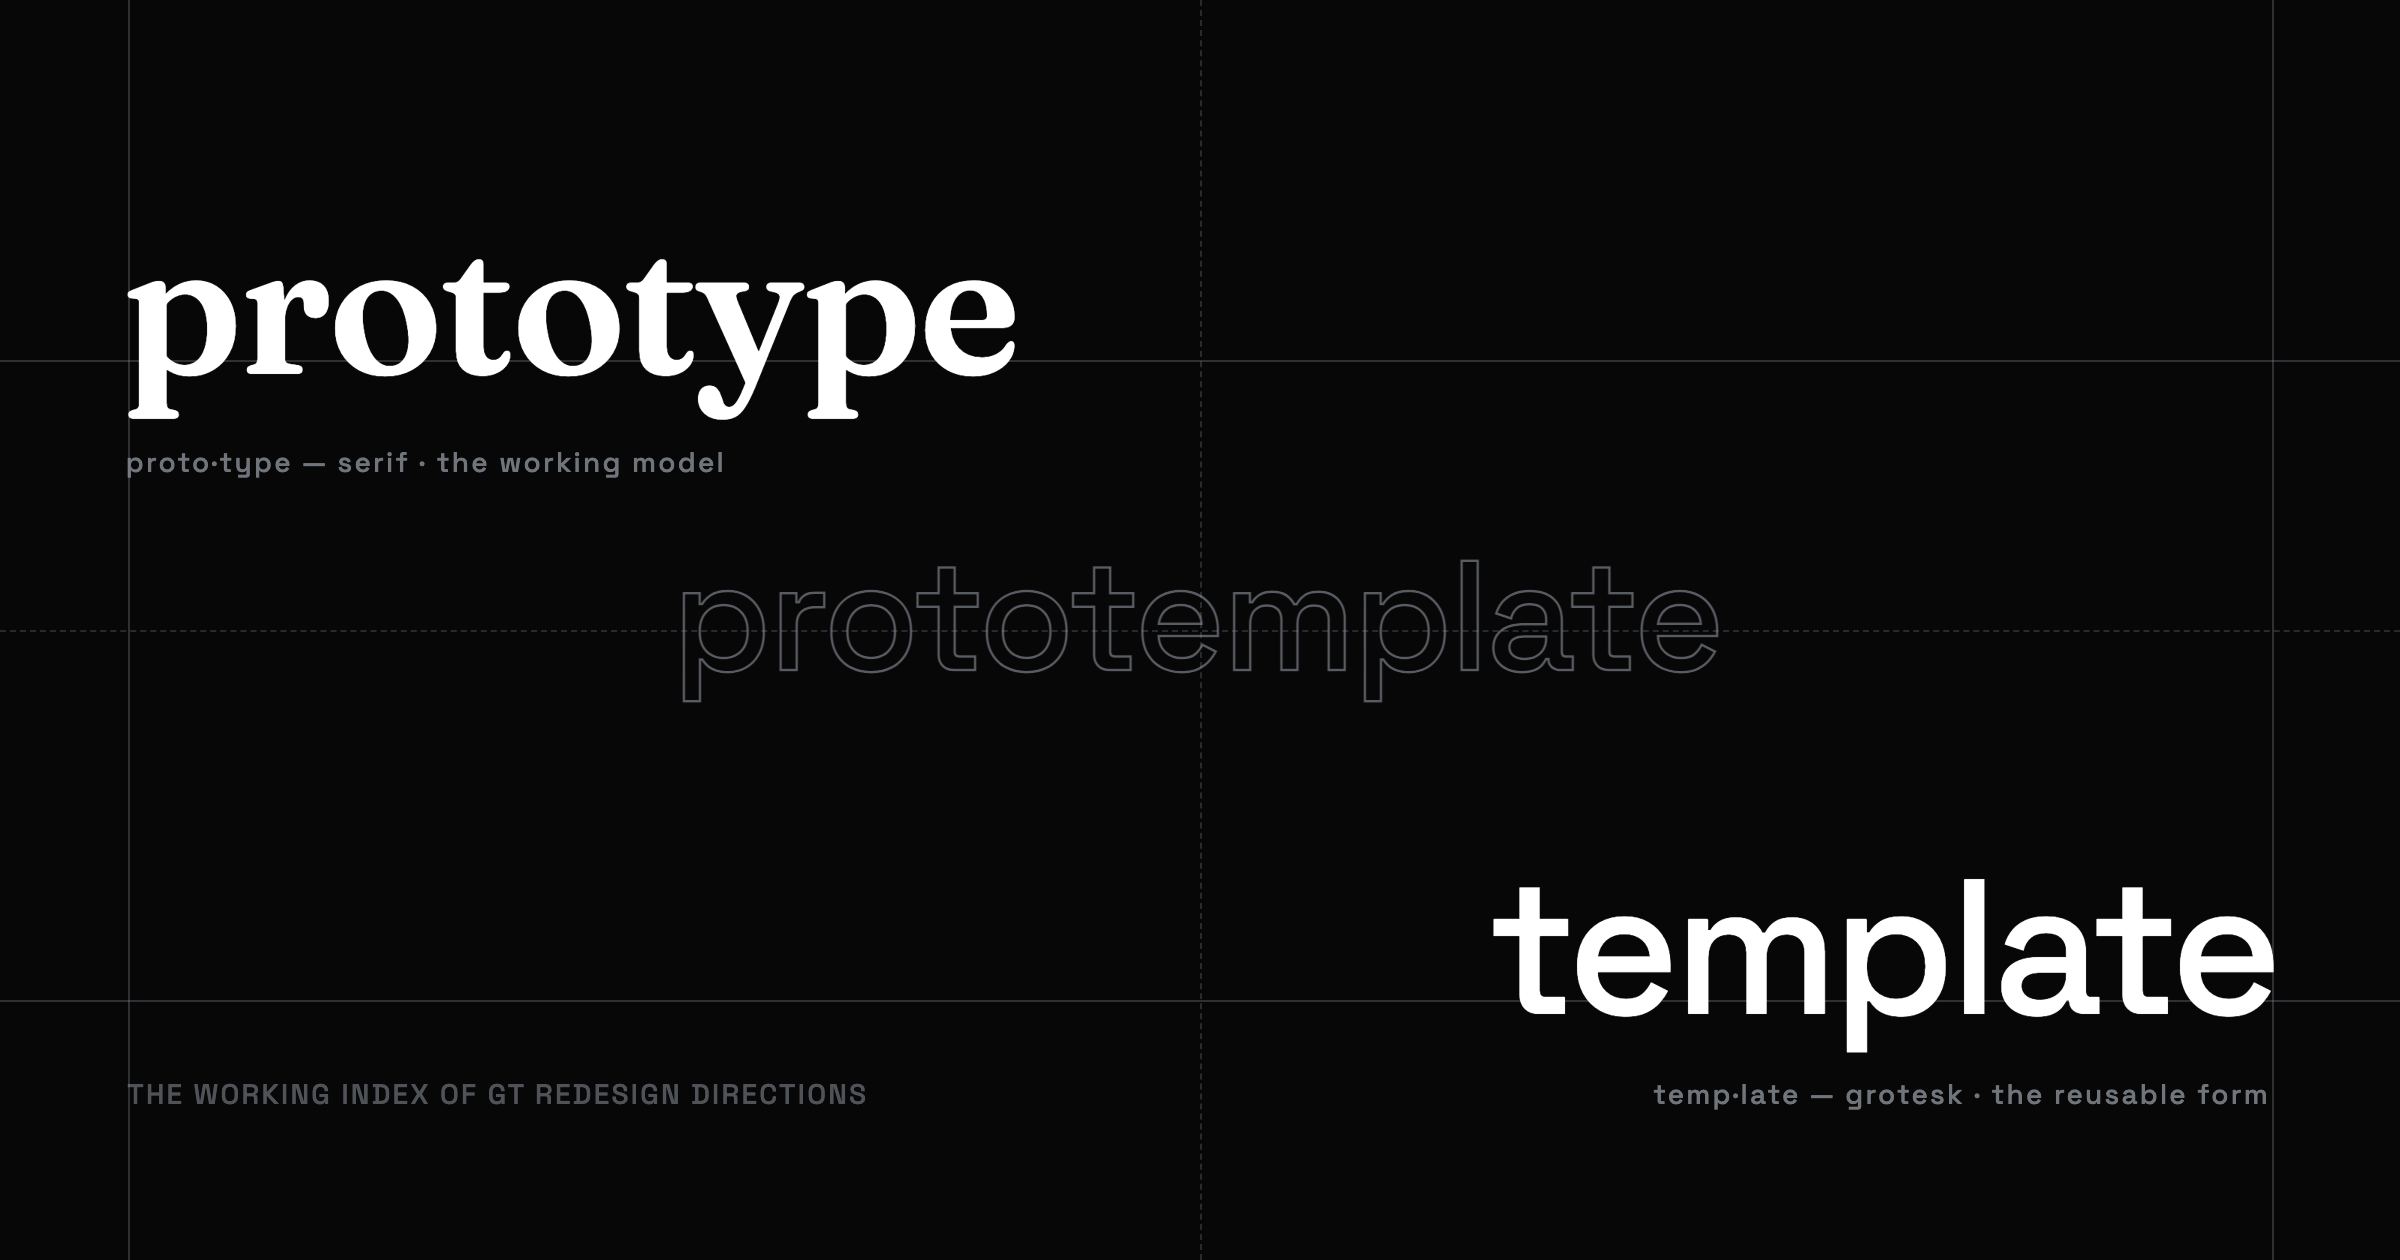
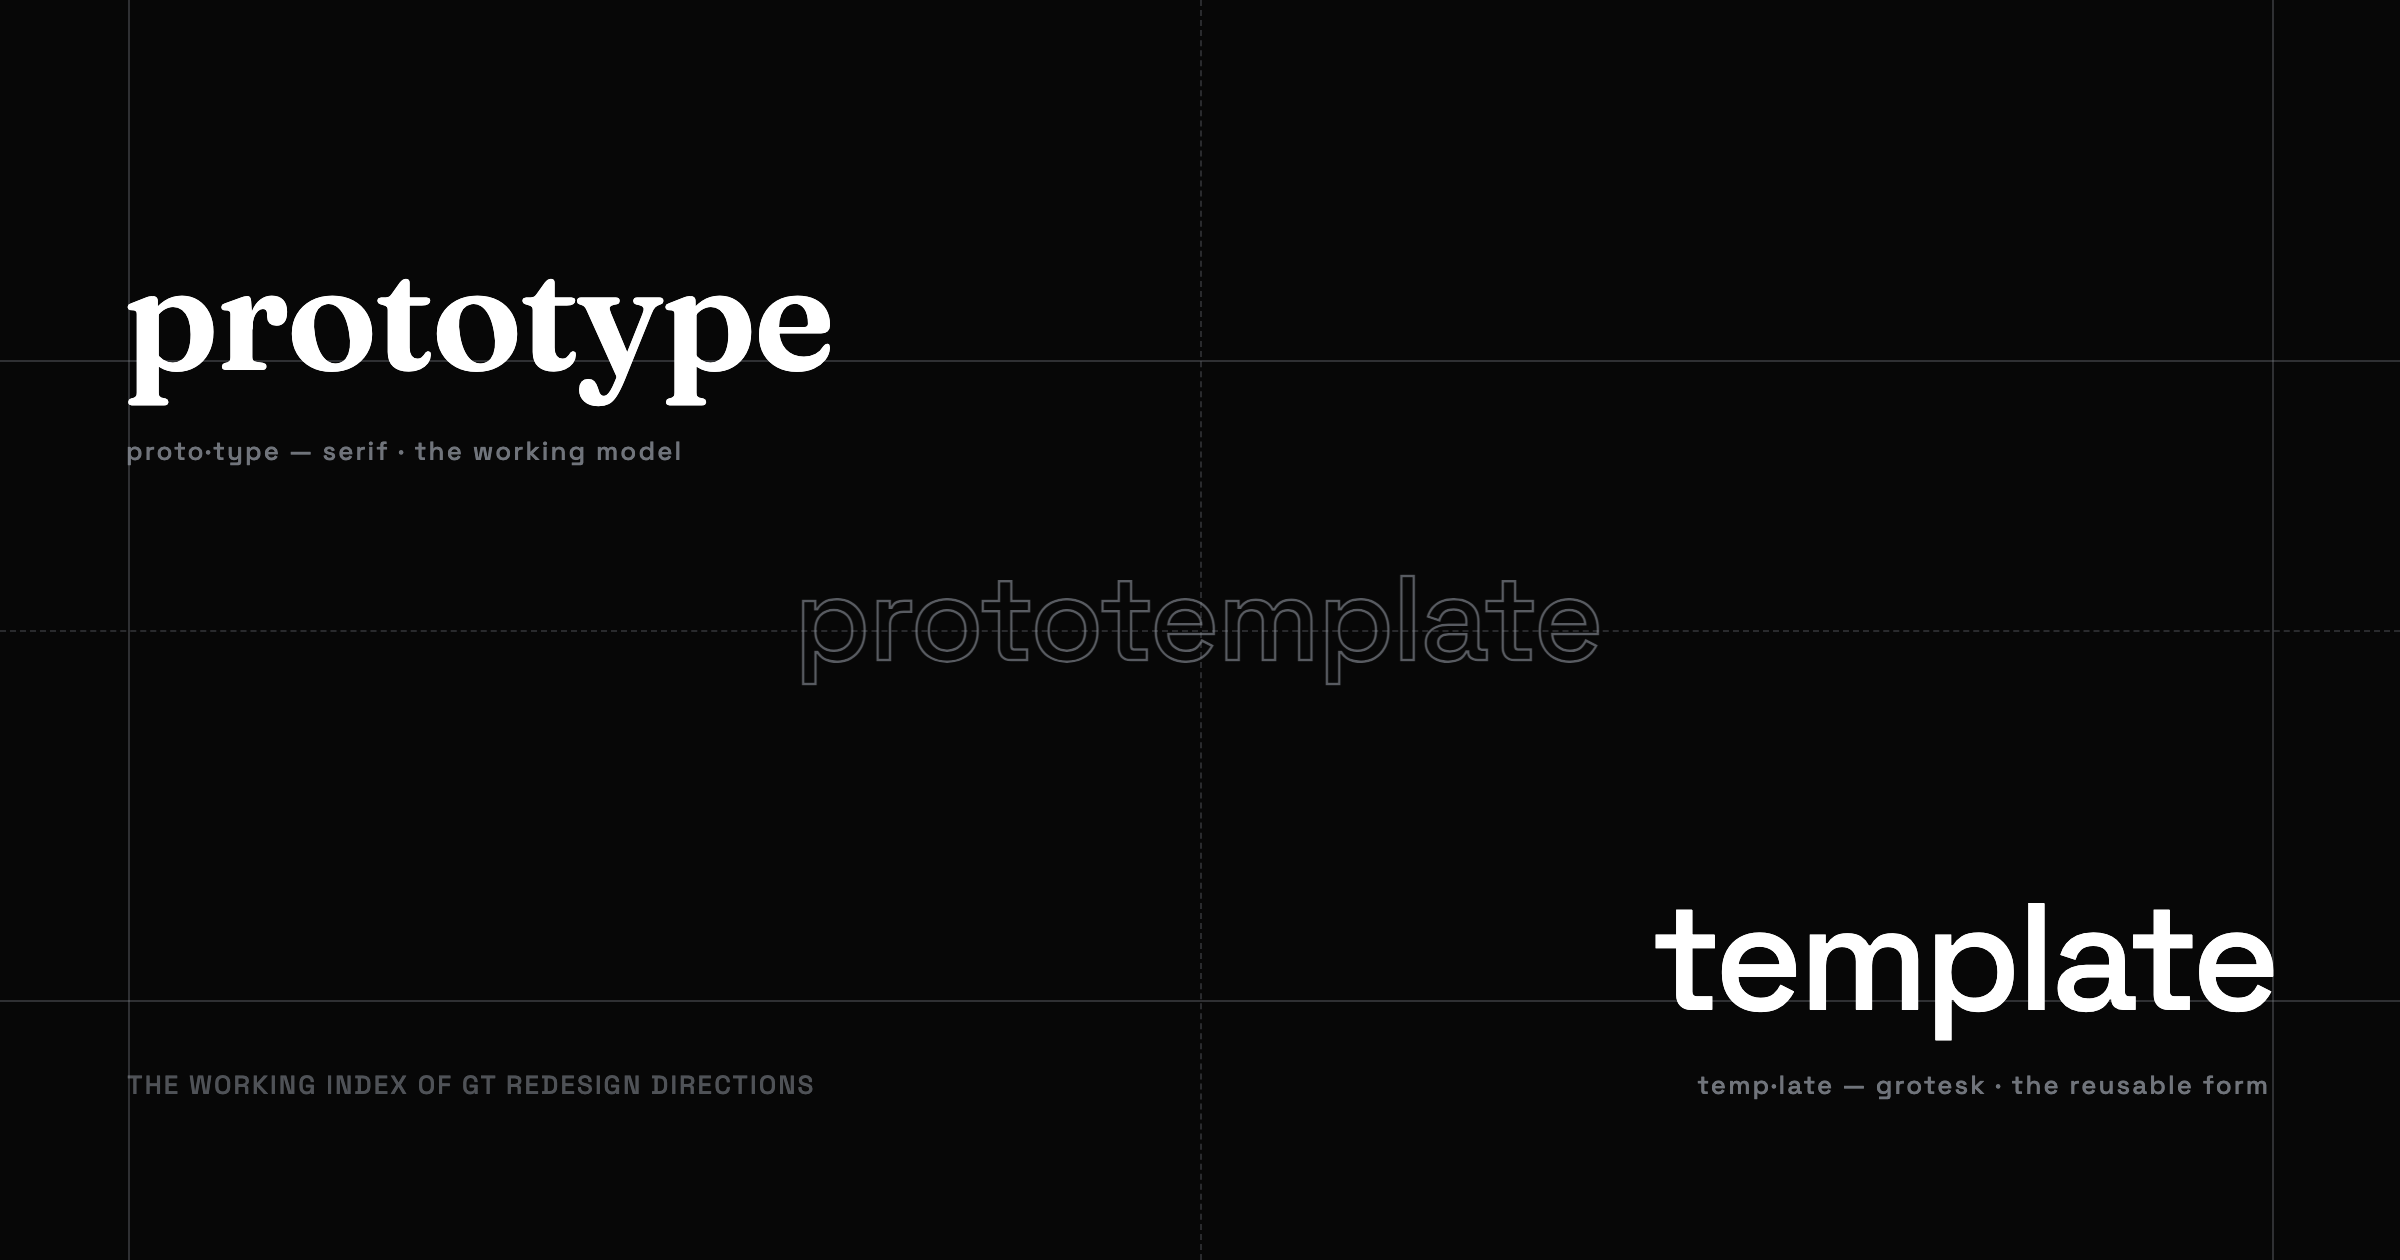
fix(nameplate): step the display type down across hero, gifs, og
Hero voices clamp(30,4.9vw,68), og at 76px voices / 60px ghost,
captions in grotesk (mono only for numbers), gifs recaptured.

diff --git a/src/app/prototemplate.css b/src/app/prototemplate.css
@@ -218,7 +218,7 @@
 }
 
 .pt-hero {
-  --pt-hero-size: clamp(38px, 6.6vw, 92px);
+  --pt-hero-size: clamp(30px, 4.9vw, 68px);
 }
 
 /* frame groups only carry absolutely-placed rules — no grid footprint */
@@ -245,7 +245,9 @@
   position: absolute;
   right: 10px;
   bottom: 4px;
-  font-family: var(--pt-mono);
+  /* plain words, not numbers — the grotesk voice, never mono */
+  font-family: var(--font-grotesk), 'Helvetica Neue', Arial, sans-serif;
+  font-weight: 500;
   font-style: normal;
   font-size: 11px;
   letter-spacing: 0.12em;
@@ -315,7 +317,9 @@
 }
 
 .pt-src-spec {
-  font-family: var(--pt-mono);
+  /* plain words, not numbers — the grotesk voice, never mono */
+  font-family: var(--font-grotesk), 'Helvetica Neue', Arial, sans-serif;
+  font-weight: 500;
   font-size: 11px;
   letter-spacing: 0.08em;
   color: var(--pt-ink-3);
